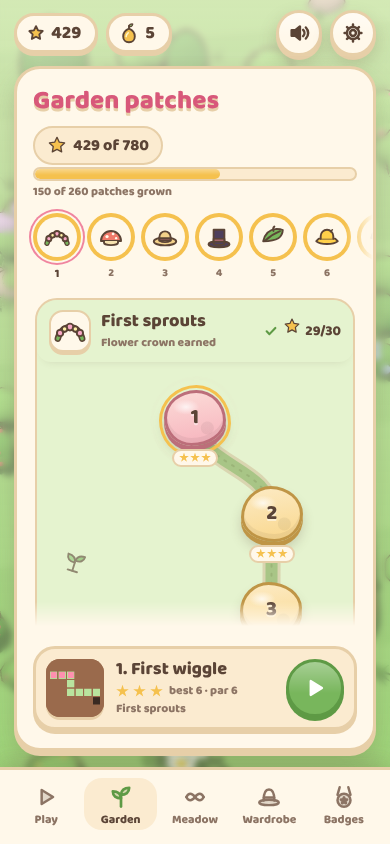
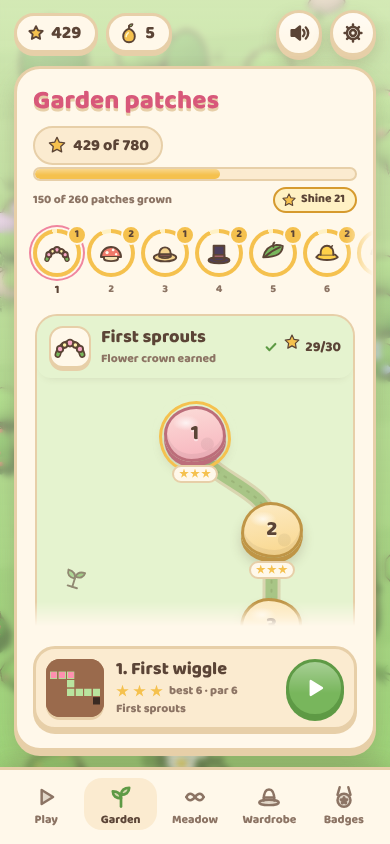
Shine them up: find patches below 3 stars on the garden map (1.20.0)
Chapter chips count their patches below 3 stars in a honey badge; a fully grown chapter's ring fills with stars
instead and turns gold with a star when all 30 are earned. A Shine button next to the progress line picks the next
patch below 3 stars from the chapter in view, and a picked patch's card says what 3 stars needs (par, or no hint).
NEWS, docs and install screenshots updated.

Claude-Session: https://claude.ai/code/session_018b3cP1De1FMBieJja8GZr1

Changed region(s): [[0.0615, 0.2156, 0.9538, 0.7393], [0.1538, 0.6469, 0.2154, 0.7085]]

diff --git a/src/game/play/levels.js b/src/game/play/levels.js
@@ -47,7 +47,17 @@ function renderLevelList(){
   let total=0; LEVELS.forEach((l,i)=>total+=stars(i)); $('lvTotal').innerHTML=`${STAR(true,0).replace('width="44" height="44"','width="20" height="20"')} ${total} of ${LEVELS.length*3}`;
   const grown=LEVELS.filter((l,i)=>isCleared(i)).length; $('lvBar').style.setProperty('--p',(100*grown/LEVELS.length).toFixed(1)+'%'); $('lvGrown').textContent=`${grown} of ${LEVELS.length} patches grown`;
   $('chStrip').innerHTML=CHAPTERS.map((ch,k)=>{ const n=ch.to-ch.from+1, open=isUnlocked(ch.from), hat=HATS.find(h=>h[2]===k); let c=0; for(let i=ch.from;i<=ch.to;i++) if(isCleared(i)) c++;
-    return `<button class="ch-chip ${c===n?'done':''} ${open?'':'locked'}" role="tab" data-k="${k}" aria-label="Chapter ${k+1}, ${ch.name}, ${c} of ${n} grown"><span class="ring" style="--p:${(100*c/n).toFixed(1)}%"><span class="emb">${open&&hat?hatArt(hat[0],28):art(open?'sprout':'lock',open?24:20)}</span></span>${k+1}</button>`; }).join('');
+    // once every patch is grown the ring fills with stars instead; the badge counts patches below 3 stars, a star when none are
+    let s=0, shine=0; for(let i=ch.from;i<=ch.to;i++){ s+=stars(i); if(isCleared(i)&&stars(i)<3) shine++; }
+    const badge=c===n&&!shine?`<span class="shine perfect">${STAR(true,0).replace('width="44" height="44"','width="13" height="13"')}</span>`:shine?`<span class="shine">${shine}</span>`:'';
+    return `<button class="ch-chip ${c===n?'done':''} ${open?'':'locked'}" role="tab" data-k="${k}" aria-label="Chapter ${k+1}, ${ch.name}, ${c} of ${n} grown, ${s} of ${n*3} stars${shine?`, ${shine} to shine`:''}"><span class="ring" style="--p:${(100*c/n).toFixed(1)}%;--s:${(100*s/(n*3)).toFixed(1)}%">${badge}<span class="emb">${open&&hat?hatArt(hat[0],28):art(open?'sprout':'lock',open?24:20)}</span></span>${k+1}</button>`; }).join('');
+  // Shine: the next cleared patch below 3 stars, from the chapter in view on
+  const toShine=shineable(), sb=$('shineBtn'); sb.hidden=!toShine.length;
+  sb.innerHTML=`${STAR(true,0).replace('width="44" height="44"','width="16" height="16"')}Shine ${toShine.length}`;
+  sb.setAttribute('aria-label',`${toShine.length} ${toShine.length===1?'patch':'patches'} to shine up to 3 stars. Show the next one`);
+  sb.onclick=()=>{ const t=shineable(); if(!t.length) return; const from=picked>=0?picked+1:CHAPTERS[+(($('chStrip').querySelector('.ch-chip.on')||{dataset:{k:0}}).dataset.k)].from;
+    const i=t.find(x=>x>=from)??t[0], n=g.querySelector(`.node[data-i="${i}"]`);
+    if(n) n.scrollIntoView({block:'center',behavior:reduceMotion?'auto':'smooth'}); pickPatch(i,true); };
   qa($('chStrip'),'.ch-chip').forEach(b=>b.onclick=()=>{ const sc=g.querySelector(`.scene[data-k="${b.dataset.k}"]`); if(!sc) return;
     g.scrollTo({top:g.scrollTop+sc.getBoundingClientRect().top-g.getBoundingClientRect().top-2,behavior:reduceMotion?'auto':'smooth'});
       markChapter(+b.dataset.k); settle(b.querySelector('.ring')); });
@@ -99,7 +109,7 @@ function spyChapter(){ const g=$('lvGrid'), top=g.getBoundingClientRect().top+60
 $('lvGrid').addEventListener('scroll',()=>{ if(spyQ) return; spyQ=true; requestAnimationFrame(()=>{ spyQ=false; spyChapter(); }); },{passive:true});
 function pickPatch(i,anim){ picked=i; const lv=LEVELS[i], st=progress.stars[lv.name]||0, best=progress.best[lv.name], ch=CHAPTERS.find(c=>i>=c.from&&i<=c.to);
   document.querySelectorAll('#lvGrid .node').forEach(n=>n.classList.toggle('sel',+n.dataset.i===i));
-  const p=$('lvPick'); p.innerHTML=`<canvas class="thumb" width="88" height="88" aria-hidden="true"></canvas><span class="pt"><b>${i+1}. ${lv.name}</b><small><em class="mini" aria-hidden="true">${[0,1,2].map(q=>`<i class="${q<st?'on':''}"></i>`).join('')}</em>${best?`best ${best} · par ${lv.par}`:`par ${lv.par}`}</small><small>${ch?ch.name:''}<span class="mechs" aria-hidden="true">${Object.keys(MECH).filter(k=>k!=='basics'&&MECH[k].k.test(lv.map.join(''))).map(k=>MECH[k].i.replace(/width="40" height="40"/,'width="21" height="21"').replace(/stroke-width="[\d.]+"/,'stroke-width="2.2"')).join('')}</span></small></span><button class="go" aria-label="Play patch ${i+1}"><svg width="26" height="26" viewBox="0 0 24 24"><path d="M8 5.5v13l10.5-6.5z" fill="#fff" stroke="#fff" stroke-width="2" stroke-linejoin="round"/></svg></button>`;
+  const p=$('lvPick'); p.innerHTML=`<canvas class="thumb" width="88" height="88" aria-hidden="true"></canvas><span class="pt"><b>${i+1}. ${lv.name}</b><small><em class="mini" aria-hidden="true">${[0,1,2].map(q=>`<i class="${q<st?'on':''}"></i>`).join('')}</em>${best?`best ${best} · par ${lv.par}`:`par ${lv.par}`}</small>${best&&st<3?`<small class="tip">${best<=lv.par?'Finish without a hint for 3 stars':`Finish in ${lv.par} moves or fewer for 3 stars`}</small>`:''}<small>${ch?ch.name:''}<span class="mechs" aria-hidden="true">${Object.keys(MECH).filter(k=>k!=='basics'&&MECH[k].k.test(lv.map.join(''))).map(k=>MECH[k].i.replace(/width="40" height="40"/,'width="21" height="21"').replace(/stroke-width="[\d.]+"/,'stroke-width="2.2"')).join('')}</span></small></span><button class="go" aria-label="Play patch ${i+1}"><svg width="26" height="26" viewBox="0 0 24 24"><path d="M8 5.5v13l10.5-6.5z" fill="#fff" stroke="#fff" stroke-width="2" stroke-linejoin="round"/></svg></button>`;
   drawThumb(p.querySelector('canvas'),lv); p.querySelector('.go').onclick=playPicked;
   if(anim){ settle(document.querySelector('#lvGrid .node.sel')); animOnce(p,'swap'); } }
 function playPicked(){ if(picked<0) return; hideAll(); loadLevel(picked); enterGame(); }

diff --git a/src/shell.html b/src/shell.html
@@ -449,12 +449,21 @@ body.photo .wsay{display:none}
 .g-progress{flex:none;display:flex;flex-direction:column;gap:5px;margin-top:-8px}
 .g-progress .b-progress{margin:0}
 .g-progress small{font:800 12px/1 var(--fb);color:var(--ink-soft)}
+/* patches below 3 stars: the Shine button jumps to the next one, chips count them, a fully starred chapter rings gold */
+.g-row{display:flex;align-items:center;justify-content:space-between;gap:8px;min-height:28px}
+.shine-next{display:inline-flex;align-items:center;gap:4px;padding:3px 10px 3px 6px;border-radius:999px;background:var(--tint-honey);border:2px solid var(--honey-dark);color:var(--deep);font:800 12px/1.2 var(--fd);cursor:pointer}
+.shine-next svg{width:16px;height:16px}
+.ch-chip .ring{position:relative}
+.ch-chip .shine{position:absolute;top:-4px;right:-6px;min-width:20px;height:20px;padding:0 5px;border-radius:999px;display:grid;place-items:center;background:var(--honey);border:2px solid var(--paper);color:var(--deep);font:800 11px/1 var(--fd)}
+.ch-chip .shine svg{width:13px;height:13px}
+.ch-chip .shine.perfect{background:var(--sticker);border-color:var(--honey-dark);padding:0}
+.ch-chip.done .ring{background:conic-gradient(var(--honey) var(--s,0%),var(--tint-honey) 0)}
+.pick .tip{color:var(--honey-dark)}
 /* one sticker per chapter: its hat (or a lock) inside a ring that fills as patches are grown; tap to jump */
 .ch-strip{flex:none;display:flex;gap:6px;margin:-4px -16px -2px;padding:9px 16px 8px;scroll-behavior:smooth}
 .ch-chip{flex:none;display:flex;flex-direction:column;align-items:center;gap:7px;padding:0;border:0;background:none;cursor:pointer;color:var(--ink-soft);font:800 11px/1 var(--fd)}
 .ch-chip .ring{width:48px;height:48px;border-radius:50%;display:grid;place-items:center;background:conic-gradient(var(--leaf) var(--p,0%),var(--edge) 0);transition:box-shadow var(--dur) var(--ease-pop)}
 .ch-chip .emb{width:40px;height:40px;border-radius:50%;display:grid;place-items:center;background:var(--sticker)}
-.ch-chip.done .ring{background:var(--honey)}
 .ch-chip.locked .emb{opacity:.6}
 .ch-chip.on{color:var(--ink)}
 .ch-chip.on .ring{box-shadow:0 0 0 2px var(--paper),0 0 0 4px var(--berry)}
@@ -843,7 +852,7 @@ body.big-text .hud-stats{zoom:.9}
     <section class="tab-page fade-scroll" id="tabGarden" aria-labelledby="lvTitle" hidden>
       <div class="panel card">
         <div class="panel-head"><h2 id="lvTitle">Garden patches</h2><span class="total" id="lvTotal"></span></div>
-        <div class="g-progress"><div class="b-progress" aria-hidden="true"><i id="lvBar"></i></div><small id="lvGrown"></small></div>
+        <div class="g-progress"><div class="b-progress" aria-hidden="true"><i id="lvBar"></i></div><div class="g-row"><small id="lvGrown"></small><button class="shine-next" id="shineBtn" hidden></button></div></div>
         <div class="ch-strip fade-scroll x" id="chStrip" data-fade="28" role="tablist" aria-label="Chapters"></div>
         <div class="list map fade-scroll" id="lvGrid" data-fade-top="10"></div>
         <div class="pick" id="lvPick" aria-live="polite"></div>

diff --git a/src/game/ui/news.js b/src/game/ui/news.js
@@ -4,6 +4,7 @@
 // add an entry on top. Returning players see the newest entry once as a card on the Play tab, new players never
 // do (squirm-news holds the last version seen); Settings > About lists them all.
 const NEWS=[
+  ['1.20.0','2026-11-04','Shine them up',['The garden map now shows where stars are missing: each chapter counts its patches below 3 stars, and turns gold once every patch shines.','A new Shine button takes you straight to the next patch that could use another star, and its card tells you what 3 stars needs.']],
   ['1.19.0','2026-11-03','Comfy settings',['A new Comfort card in Settings: Calm motion keeps the screen still, Bigger text makes everything easier to read, and Colour helpers put a shape on each pollen colour (circle, triangle, square) with a chip showing the one you wear.','Vibration has its own little language now: a rising tap when you grow, a sparkle for keys and pollen, a swirl when you turn around, a fanfare when you win. Pick Gentle or Full in Settings.']],
   ['1.18.0','2026-11-03','Things that move',['Three new worm patterns that move: Shimmer sweeps a glossy shine down your worm, Glow worm twinkles little lights along it, and Prism flows soft rainbow colours from head to tail.','Some hats and extras come alive too: the pinwheel spins in the breeze, the butterfly flaps, the firefly hovers, bee antennae bounce, the rain cloud drips and the teacup steams.','The Pinwheel friend now sits on a stick tucked behind your worm\'s head with a little bow.']],
   ['1.17.0','2026-11-02','Twirl-caps',['Meet the turnaround mushroom: nibble a twirl-cap and you turn around, so your tail leads the way.','Two new chapters: Twirl-caps eases you in, and Topsy-turvy mixes them with everything else for some properly twisty patches.','New to wear: a Twirl-cap hat in five colours, a Weathervane, a Pinwheel friend, a Two-tone pattern and a Seafoam colour, plus three new badges.','Turnarounds grow in the meadow too.']],

diff --git a/CLAUDE.md b/CLAUDE.md
@@ -412,7 +412,10 @@ from a tab replaces that layer with `game`.
   a winding SVG path; closed chapters fold into a small card; tapping a stone picks it (`pickPatch`) and
   shows its card with a `drawThumb` preview and the mechanics it uses, and tapping again plays. Above the
   map: stars, a patches-grown bar and the chapter strip (`#chStrip`, one chip per chapter with its hat in a
-  progress ring; tapping glides the map to that chapter, and `spyChapter` highlights the one in view).
+  progress ring; tapping glides the map to that chapter, and `spyChapter` highlights the one in view). Once a chapter
+  is fully grown its ring fills with stars instead (gold when all 30), and a honey badge counts its patches below 3
+  stars (`shineable`). The Shine button (`#shineBtn`) picks the next of those from the chapter in view, and a
+  picked patch's card says what 3 stars needs (par, or no hint).
 - **Meadow:** endless setup. A hero card for the chosen difficulty with its description and its own streak,
   best, stars and cleared count (`DIFF_DESC`), a compact difficulty switch, the mechanics mix with All/None
   and Surprise me, and Grow a patch pinned at the bottom.
